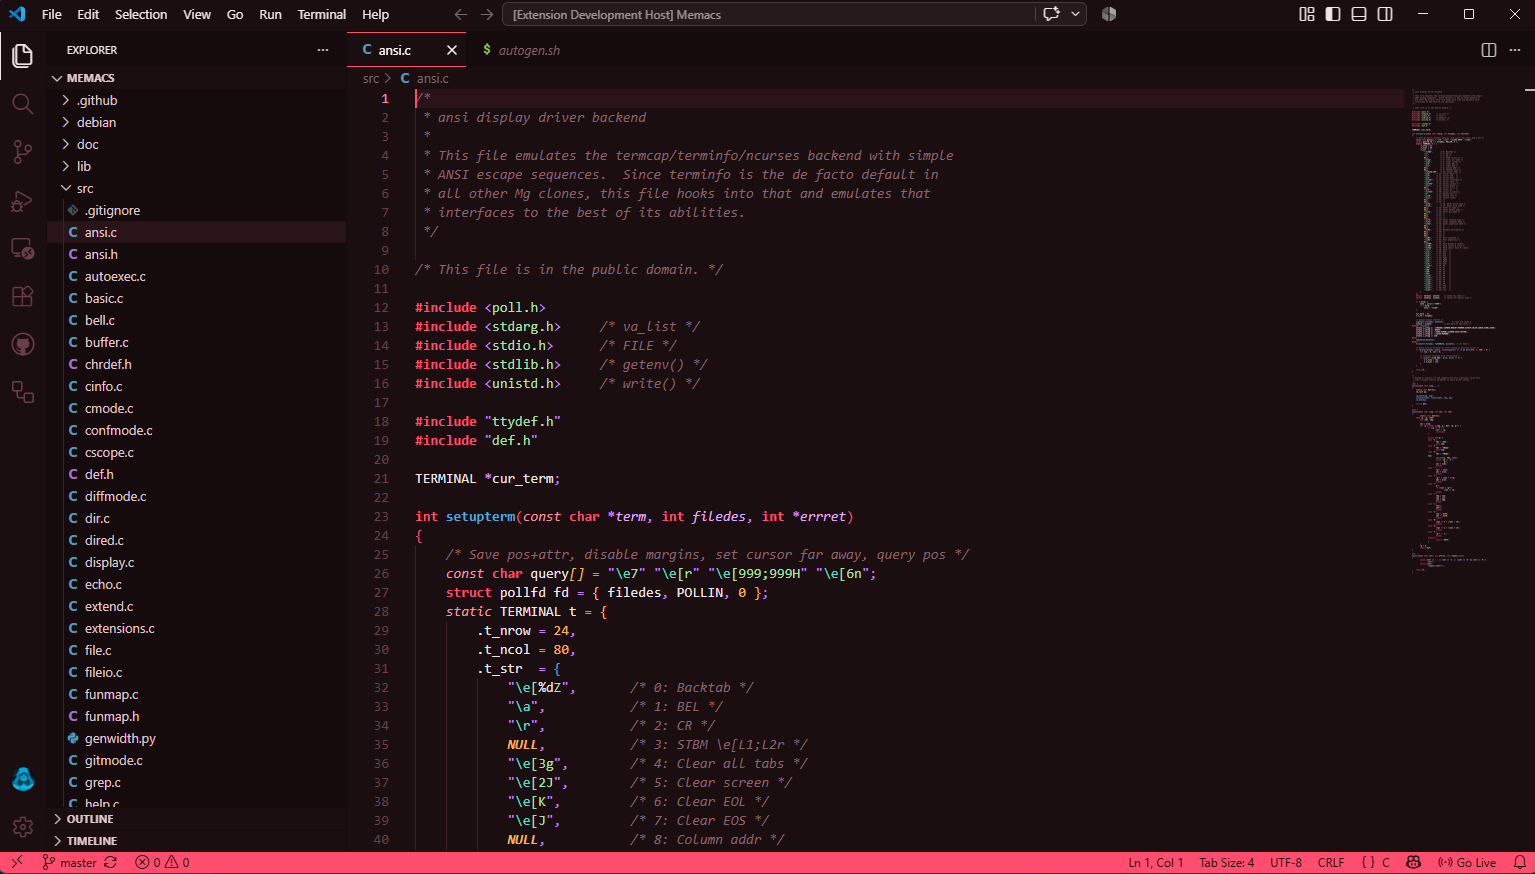
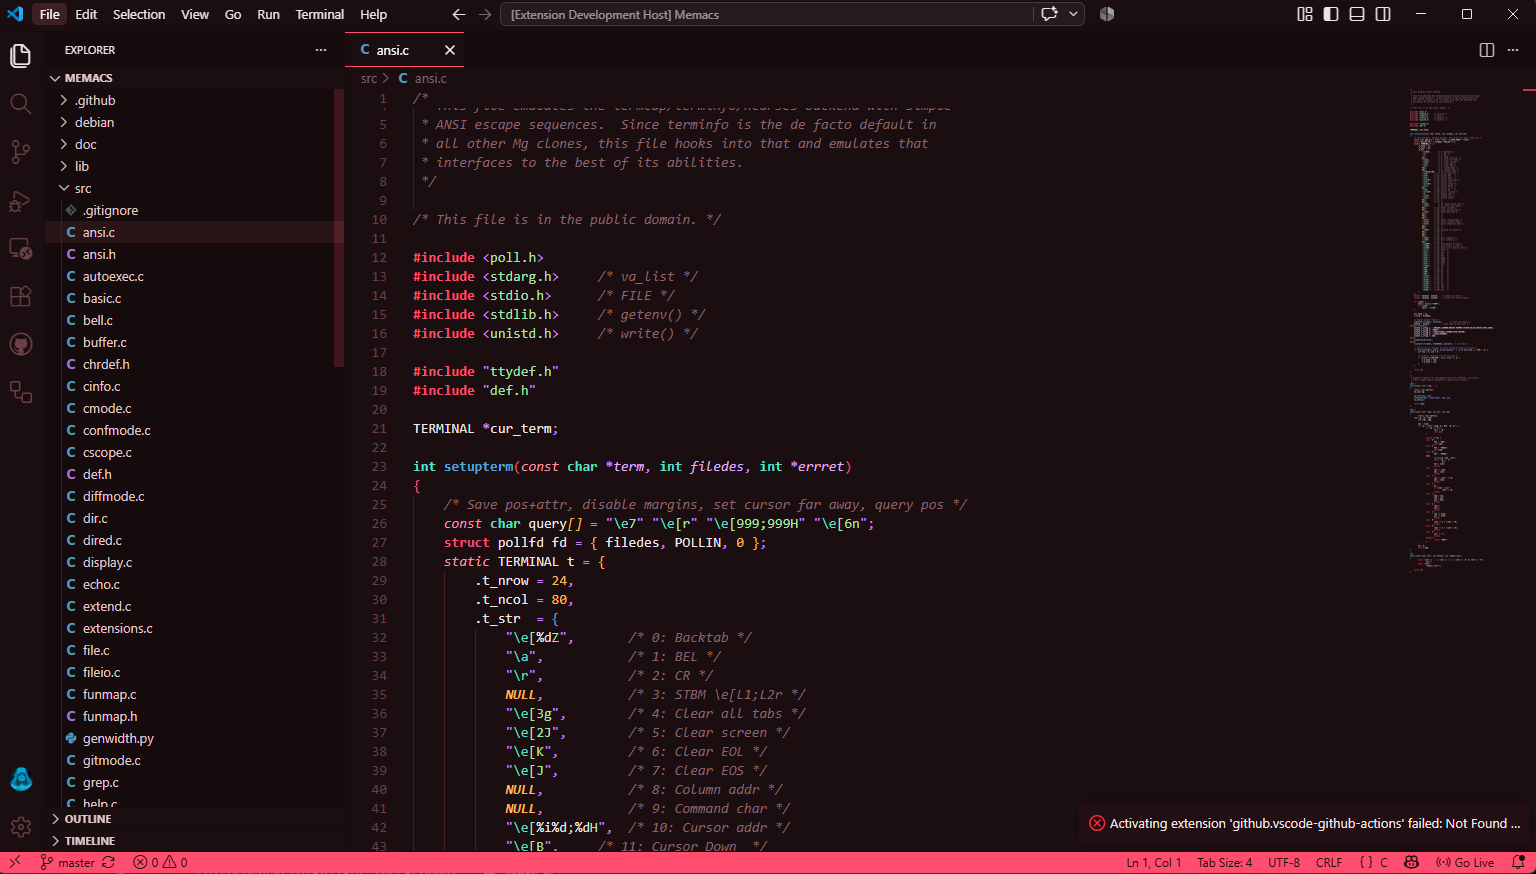
modified:   Images/ZafiroDark.png 	modified:   README.md 	modified:   themes/ZafiroDark.json

diff --git a/README.md b/README.md
@@ -6,25 +6,18 @@ A dark color theme for Visual Studio Code with a crimson background and a high-c
 
 
 
- [![Version](https://vsmarketplacebadges.dev/version/zhuangtongfa.Material-theme.png)](https://marketplace.visualstudio.com/search?target=VSCode&category=Themes&sortBy=Installs) 
+[![VS Code Marketplace](https://img.shields.io/badge/VS%20Code%20Marketplace-007ACC?style=for-the-badge&logo=visual-studio-code&logoColor=white)](https://marketplace.visualstudio.com/search?target=VSCode&category=Themes&sortBy=Installs)
 
 ## SCREENSHOT
 
-![ScreenShot](./images/ZafiroDark.png)
+![ScreenShot](/Images/ZafiroDark.png)
 
 
 
-### Setting
 
-![ScreenShot](https://cdn.jsdelivr.net/gh/binaryify/onedark-pro/screenshots/setting.png)
 
-### Built in themes
 
-![built-in themes](https://cdn.jsdelivr.net/gh/binaryify/onedark-pro/screenshots/built-in-themes.png)
 
-### Notice
-
-Setting only support default theme(One Dark Pro).
 
 ## Markdown preview style
 
